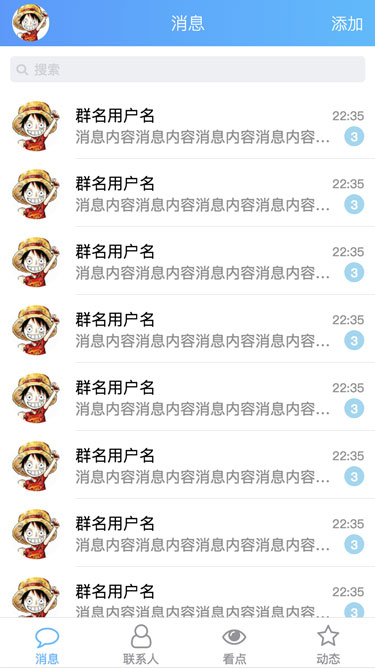
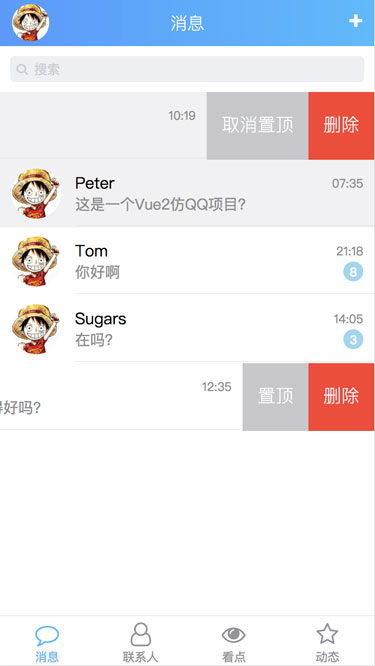
更新说明

diff --git a/README.md b/README.md
@@ -4,13 +4,16 @@
 
 这是一个使用Vue2.0来模仿手机QQ的WebApp，出于个人兴趣和对Vue的喜爱写下这个项目，目前处于初步开发阶段。
 
+有什么建议和问题欢迎大神们在[Issues](https://github.com/suguoyao/vue2-QQ/issues)提出，感兴趣的朋友给个充满动力的star吧！
+
 **持续更新中**
 
-最近更新时间：2018-03-30
+最近更新时间：2018-03-31
 
 ## 效果预览 
 
 [Demo预览请点击这里](http://120.79.241.61/vue2-QQ/#/) 
+
 
 （请用chrome手机模式预览）
 
@@ -26,11 +29,11 @@
 - [ ]  动态页
 
 ### 功能
-查看最近消息列表list
+查看最近消息列表list(根据最近聊天时间降序排序)
 
 左滑删除最近消息
 
-左滑置顶最近消息
+左滑置顶/取消置顶最近消息
 
 ## 目前实现
 
